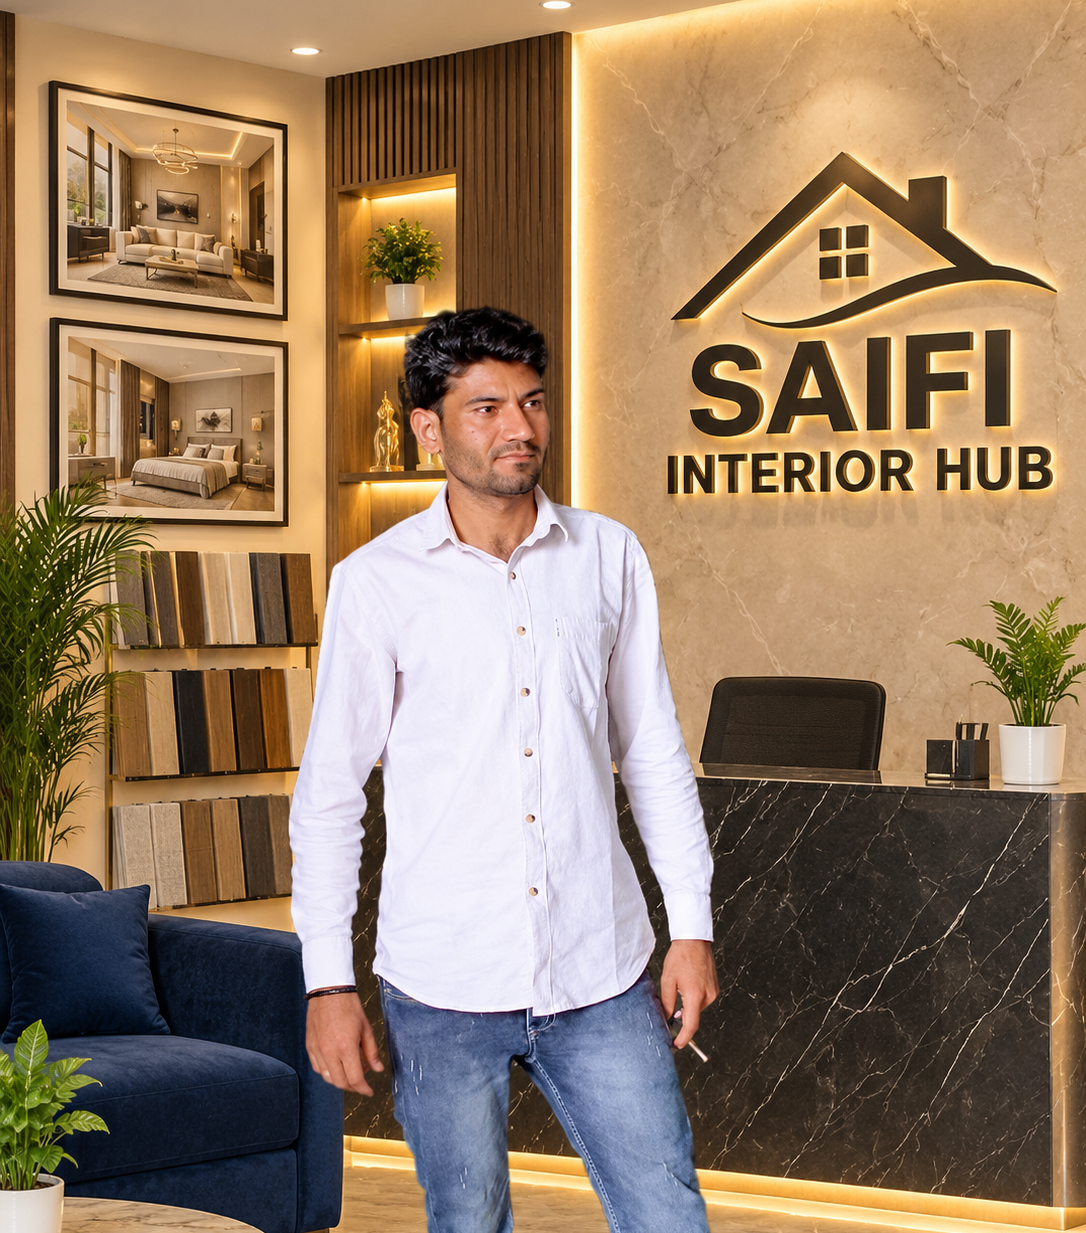
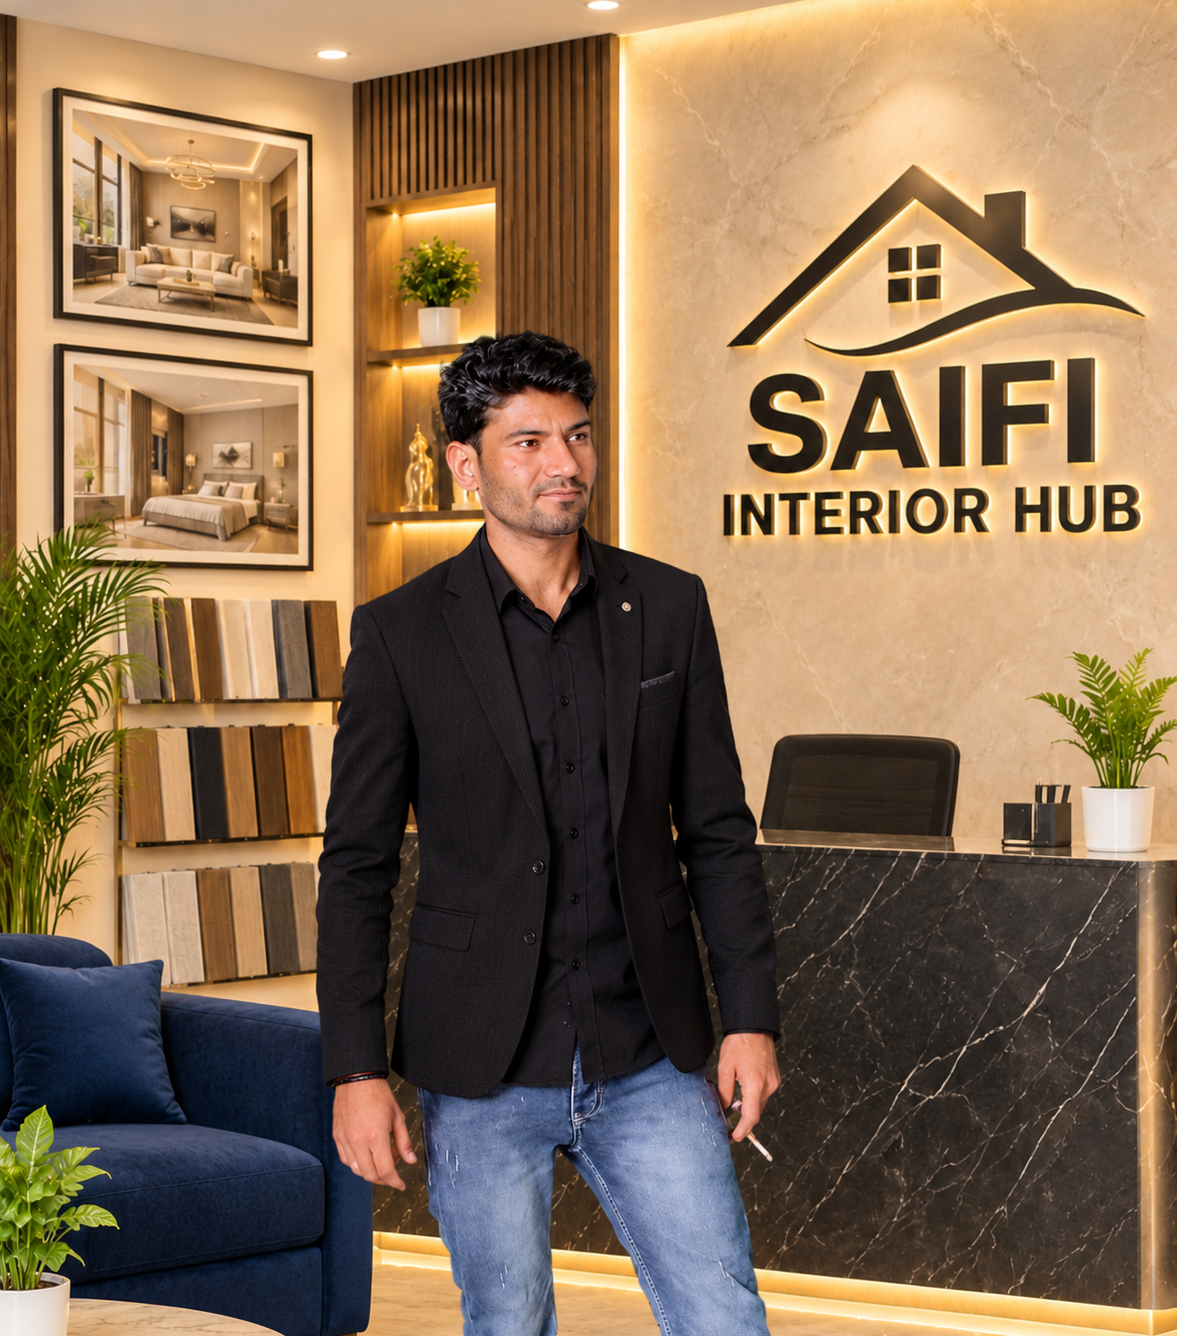
Update owner image

diff --git a/src/components/home/CompanyExperienceSection.jsx b/src/components/home/CompanyExperienceSection.jsx
@@ -228,8 +228,8 @@ export default function CompanyExperienceSection() {
                 className="exp-main-img"
                 loading="lazy"
                 decoding="async"
-                width="1086"
-                height="1233"
+                width="1177"
+                height="1336"
               />
               <div className="exp-main-caption">
                 <span className="exp-caption-title">Direct On-Site Supervision</span>

diff --git a/src/pages/AboutPage.jsx b/src/pages/AboutPage.jsx
@@ -194,8 +194,8 @@ export default function AboutPage() {
                   className="about-main-img about-owner-img"
                   loading="eager"
                   decoding="async"
-                  width="1086"
-                  height="1233"
+                  width="1177"
+                  height="1336"
                 />
                 <div className="about-media-badge">
                   <span className="badge-num">10+</span>
